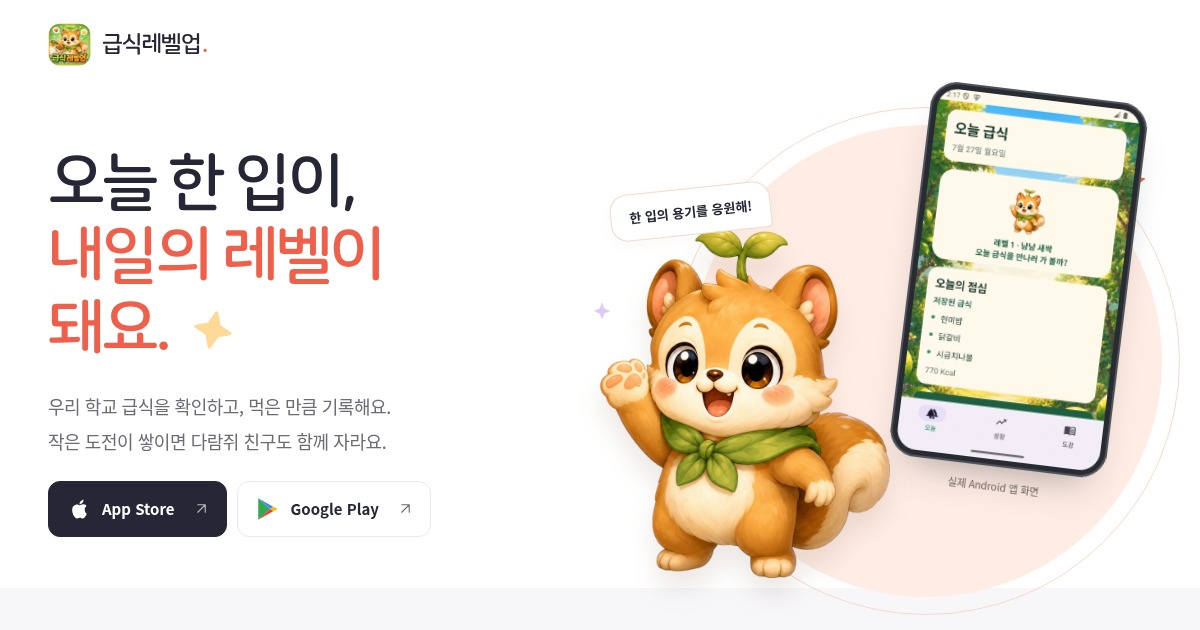
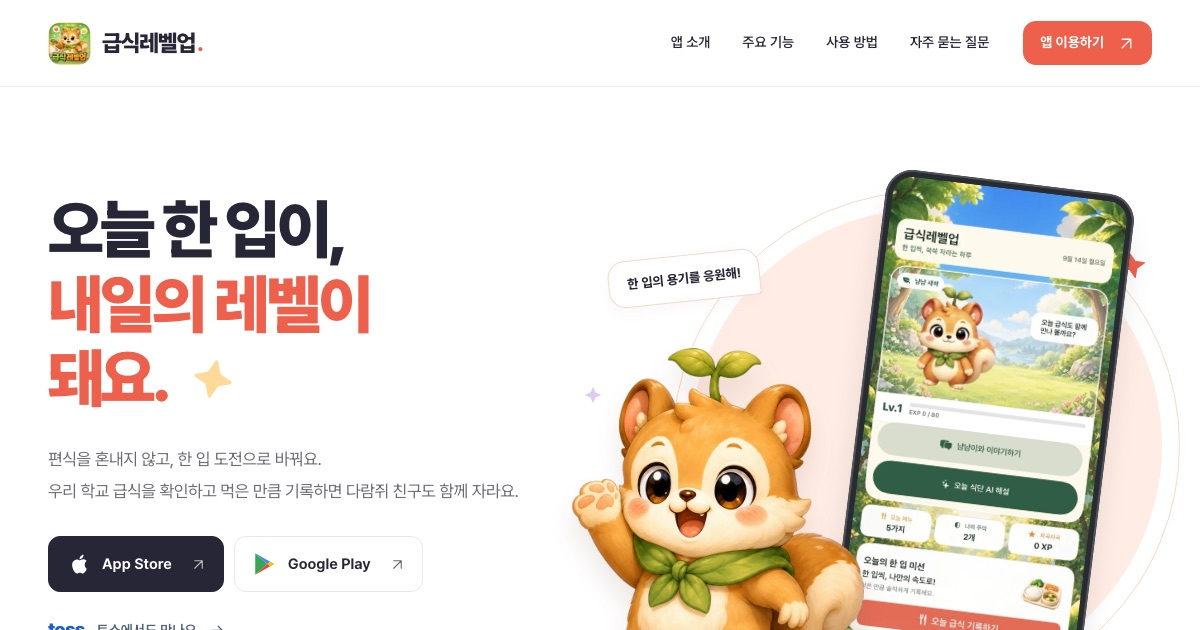
feat(site): add picky-eating prevention copy and cache-bust asset URLs

diff --git a/index.html b/index.html
@@ -5,30 +5,30 @@
 <meta charset="utf-8"/>
 <meta content="width=device-width, initial-scale=1" name="viewport"/>
 <title>급식레벨업 | 오늘 한 입이 내일의 레벨이 돼요</title>
-<meta content="우리 학교 급식을 확인하고, 먹은 만큼 기록해요. 하루 한 번 AI 식단 해설로 오늘의 영양 균형도 살펴보는 급식레벨업. iPhone·Android·토스에서 만나보세요." name="description"/>
+<meta content="편식을 혼내지 않고 한 입 도전으로 바꾸는 편식 예방 급식 코칭 앱. 우리 학교 급식을 확인하고 먹은 만큼 기록하며, 하루 한 번 AI 식단 해설로 영양 균형도 살펴봐요. iPhone·Android·토스에서 만나보세요." name="description"/>
 <meta content="#ffffff" name="theme-color"/>
 <link href="https://nyam.h19h19.com/" rel="canonical"/>
 <meta content="website" property="og:type"/>
 <meta content="ko_KR" property="og:locale"/>
 <meta content="https://nyam.h19h19.com/" property="og:url"/>
 <meta content="급식레벨업 | 오늘 한 입이 내일의 레벨이 돼요" property="og:title"/>
-<meta content="작은 한 입을 응원하는 급식 성장 기록 앱. AI 식단 해설로 오늘의 영양 균형까지 살펴봐요. iPhone·Android·토스에서 만나보세요." property="og:description"/>
-<meta content="https://nyam.h19h19.com/assets/images/og-cover.jpg" property="og:image"/>
+<meta content="편식을 혼내지 않고 한 입 도전으로 바꾸는 편식 예방 급식 코칭 앱. AI 식단 해설로 오늘의 영양 균형까지 살펴봐요. iPhone·Android·토스에서 만나보세요." property="og:description"/>
+<meta content="https://nyam.h19h19.com/assets/images/og-cover.jpg?v=20260916c" property="og:image"/>
 <meta content="1200" property="og:image:width"/>
 <meta content="630" property="og:image:height"/>
 <meta content="summary_large_image" name="twitter:card"/>
-<link href="./assets/images/app-icon-96.webp" rel="icon" type="image/webp"/>
-<link href="./assets/app-icon.png" rel="apple-touch-icon"/>
+<link href="./assets/images/app-icon-96.webp?v=20260916c" rel="icon" type="image/webp"/>
+<link href="./assets/app-icon.png?v=20260916c" rel="apple-touch-icon"/>
 <link crossorigin="" href="https://cdn.jsdelivr.net" rel="preconnect"/>
-<link href="./assets/fonts.css" rel="stylesheet"/>
-<link href="./assets/home.css" rel="stylesheet"/>
-<script defer="" src="./assets/home.js"></script>
+<link href="./assets/fonts.css?v=20260916c" rel="stylesheet"/>
+<link href="./assets/home.css?v=20260916c" rel="stylesheet"/>
+<script defer="" src="./assets/home.js?v=20260916c"></script>
 </head>
 <body>
 <a class="skip-link" href="#content">본문으로 바로가기</a>
 <header class="site-header" data-header="">
 <nav aria-label="주요 메뉴" class="container navbar">
-<a aria-label="급식레벨업 홈" class="brand" href="./index.html"><img alt="" class="" fetchpriority="high" height="96" src="./assets/images/app-icon-96.webp" width="96"/><span>급식레벨업<span class="brand-dot">.</span></span></a>
+<a aria-label="급식레벨업 홈" class="brand" href="./index.html"><img alt="" class="" fetchpriority="high" height="96" src="./assets/images/app-icon-96.webp?v=20260916c" width="96"/><span>급식레벨업<span class="brand-dot">.</span></span></a>
 <div class="nav-links" id="navigation"><a href="#intro">앱 소개</a><a href="#features">주요 기능</a><a href="#how">사용 방법</a><a href="#faq">자주 묻는 질문</a></div>
 <a class="button button-small button-coral nav-cta" href="#get">앱 이용하기<svg aria-hidden="true" class="icon" fill="none" stroke="currentColor" stroke-linecap="round" stroke-linejoin="round" stroke-width="1.8" viewbox="0 0 24 24"><path d="M6 18 18 6M6 6h12v12"></path></svg></a>
 <button aria-controls="navigation" aria-expanded="false" aria-label="메뉴 열기" class="menu-toggle" type="button"><svg aria-hidden="true" class="icon" fill="none" stroke="currentColor" stroke-linecap="round" stroke-linejoin="round" stroke-width="1.8" viewbox="0 0 24 24"><path d="M4 7h16M4 12h16M4 17h16"></path></svg></button>
@@ -39,15 +39,15 @@
 <div class="container hero-layout">
 <div class="hero-copy">
 <h1 id="hero-title">오늘 한 입이,<br/><span>내일의 레벨이</span><br/><span class="last-line">돼요<svg aria-hidden="true" class="title-spark" fill="none" stroke="currentColor" stroke-linecap="round" stroke-linejoin="round" stroke-width="1.8" viewbox="0 0 24 24"><path d="m12 3 2.6 6.4L21 12l-6.4 2.6L12 21l-2.6-6.4L3 12l6.4-2.6L12 3Z"></path></svg><span class="dot">.</span></span></h1>
-<p class="hero-description">우리 학교 급식을 확인하고, 먹은 만큼 기록해요.<br/>작은 도전이 쌓이면 다람쥐 친구도 함께 자라요.</p>
+<p class="hero-description">편식을 혼내지 않고, 한 입 도전으로 바꿔요.<br/>우리 학교 급식을 확인하고 먹은 만큼 기록하면 다람쥐 친구도 함께 자라요.</p>
 <div class="hero-actions"><a class="store-button apple" data-store="apple" href="https://apps.apple.com/in/app/%EA%B8%89%EC%8B%9D%EB%A0%88%EB%B2%A8%EC%97%85/id6781586745"><svg aria-hidden="true" class="store-icon" fill="currentColor" viewbox="0 0 24 24"><path d="M17.3 12.4c0-2 1.6-3 1.7-3.1-1-1.4-2.5-1.6-3.1-1.6-1.3-.1-2.5.8-3.1.8-.7 0-1.7-.8-2.8-.7-1.5 0-2.8.9-3.6 2.2-1.5 2.6-.4 6.5 1.1 8.6.7 1 1.5 2.1 2.6 2.1 1 0 1.4-.7 2.7-.7 1.2 0 1.6.7 2.7.7s1.8-1 2.5-2c.8-1.2 1.2-2.3 1.2-2.4-.1 0-1.9-.8-1.9-3.9ZM15.2 6.3c.6-.8 1.1-1.8 1-2.9-.9 0-2 .6-2.7 1.4-.6.7-1.2 1.8-1 2.8 1 .1 2.1-.5 2.7-1.3Z"></path></svg><span>App Store</span><svg aria-hidden="true" class="icon button-arrow" fill="none" stroke="currentColor" stroke-linecap="round" stroke-linejoin="round" stroke-width="1.8" viewbox="0 0 24 24"><path d="M6 18 18 6M6 6h12v12"></path></svg></a><a class="store-button google" data-store="google" href="https://play.google.com/store/apps/details?id=com.h19h29.naymnaymlevelup&amp;pcampaignid=web_share"><svg aria-hidden="true" class="store-icon play-icon" viewbox="0 0 24 24"><path d="M3 2 14 12 3 22Z" fill="#34a853"></path><path d="m3 2 13.8 8L14 12Z" fill="#4285f4"></path><path d="m14 12 2.8-2L21 12l-4.2 2Z" fill="#fbbc04"></path><path d="M3 22 14 12l2.8 2Z" fill="#ea4335"></path></svg><span>Google Play</span><svg aria-hidden="true" class="icon button-arrow" fill="none" stroke="currentColor" stroke-linecap="round" stroke-linejoin="round" stroke-width="1.8" viewbox="0 0 24 24"><path d="M6 18 18 6M6 6h12v12"></path></svg></a></div>
 <a class="toss-link" data-store="toss" href="https://minion.toss.im/DAV1jvys"><span class="toss-inline">toss</span>토스에서도 만나요<svg aria-hidden="true" class="icon" fill="none" stroke="currentColor" stroke-linecap="round" stroke-linejoin="round" stroke-width="1.8" viewbox="0 0 24 24"><path d="M5 12h14m-6-6 6 6-6 6"></path></svg></a>
 <p class="hero-note"><svg aria-hidden="true" class="icon" fill="none" stroke="currentColor" stroke-linecap="round" stroke-linejoin="round" stroke-width="1.8" viewbox="0 0 24 24"><path d="m5 12 4 4L19 6"></path></svg>회원가입 없이, 학교만 선택하면 시작!</p>
 </div>
 <div aria-label="실제 앱 화면과 급식레벨업의 다람쥐 캐릭터" class="hero-art">
 <div aria-hidden="true" class="hero-orbit"></div>
-<div class="hero-phone"><div class="device"><img alt="오늘 급식 메뉴와 다람쥐가 보이는 실제 앱 화면" class="" fetchpriority="high" height="1173" src="./assets/images/screen-today.webp" width="540"/></div><span class="hero-screen-note">실제 앱 화면</span></div>
-<div class="hero-mascot"><img alt="손을 들어 작은 도전을 응원하는 다람쥐 캐릭터" class="" fetchpriority="high" height="850" src="./assets/images/mascot-heart.webp" width="706"/></div>
+<div class="hero-phone"><div class="device"><img alt="오늘 급식 메뉴와 다람쥐가 보이는 실제 앱 화면" class="" fetchpriority="high" height="1173" src="./assets/images/screen-today.webp?v=20260916c" width="540"/></div><span class="hero-screen-note">실제 앱 화면</span></div>
+<div class="hero-mascot"><img alt="손을 들어 작은 도전을 응원하는 다람쥐 캐릭터" class="" fetchpriority="high" height="850" src="./assets/images/mascot-heart.webp?v=20260916c" width="706"/></div>
 <div class="speech-bubble">한 입의 용기를 응원해!</div>
 <div aria-hidden="true" class="art-star star-one"><svg aria-hidden="true" class="icon" fill="none" stroke="currentColor" stroke-linecap="round" stroke-linejoin="round" stroke-width="1.8" viewbox="0 0 24 24"><path d="m12 3 2.6 6.4L21 12l-6.4 2.6L12 21l-2.6-6.4L3 12l6.4-2.6L12 3Z"></path></svg></div><div aria-hidden="true" class="art-star star-two"><svg aria-hidden="true" class="icon" fill="none" stroke="currentColor" stroke-linecap="round" stroke-linejoin="round" stroke-width="1.8" viewbox="0 0 24 24"><path d="m12 3 2.6 6.4L21 12l-6.4 2.6L12 21l-2.6-6.4L3 12l6.4-2.6L12 3Z"></path></svg></div>
 <div class="hero-caption">작은 시도도, 멋진 성장이니까.</div>
@@ -61,29 +61,29 @@
 <div aria-label="앱 화면 선택" class="showcase-tabs" role="tablist"><button aria-controls="panel-today" aria-selected="true" class="showcase-tab" id="tab-today" role="tab" type="button"><span class="tab-number">01</span>오늘 급식</button><button aria-controls="panel-record" aria-selected="false" class="showcase-tab" id="tab-record" role="tab" type="button"><span class="tab-number">02</span>한 입 도전</button><button aria-controls="panel-growth" aria-selected="false" class="showcase-tab" id="tab-growth" role="tab" type="button"><span class="tab-number">03</span>나의 성장</button><button aria-controls="panel-dex" aria-selected="false" class="showcase-tab" id="tab-dex" role="tab" type="button"><span class="tab-number">04</span>성장 도감</button></div>
 <div class="showcase-content"><article aria-labelledby="tab-today" class="showcase-panel" id="panel-today" role="tabpanel" tabindex="0">
 <div class="screen-stage stage-today"><span class="screen-caption">실제 앱 화면</span>
-<a aria-label="오늘 급식 앱 화면 크게 보기" class="shot-zoom" data-title="오늘 급식" data-zoom="" href="./assets/images/screen-today.png">
-<div class="device"><img alt="오늘의 급식 메뉴와 다람쥐가 보이는 앱 화면" class="" decoding="async" height="1173" loading="lazy" src="./assets/images/screen-today.webp" width="540"/></div>
+<a aria-label="오늘 급식 앱 화면 크게 보기" class="shot-zoom" data-title="오늘 급식" data-zoom="" href="./assets/images/screen-today.png?v=20260916c">
+<div class="device"><img alt="오늘의 급식 메뉴와 다람쥐가 보이는 앱 화면" class="" decoding="async" height="1173" loading="lazy" src="./assets/images/screen-today.webp?v=20260916c" width="540"/></div>
 <span class="zoom-hint"><svg aria-hidden="true" class="icon" fill="none" stroke="currentColor" stroke-linecap="round" stroke-linejoin="round" stroke-width="1.8" viewbox="0 0 24 24"><path d="M9 3H3v6m12-6h6v6M3 15v6h6m12-6v6h-6"></path></svg>화면 크게 보기</span></a>
 <span class="screen-index">01<span> / 05</span></span></div>
 <div class="screen-description"><p class="section-label">오늘 급식</p><h3>우리 학교 메뉴가<br/>한눈에 보여요.</h3><p>학교를 등록하면 오늘의 급식을 바로 확인할 수 있어요. 낯선 반찬도 미리 만나고, 급식 시간을 가볍게 준비해요.</p>
 <div class="screen-point"><svg aria-hidden="true" class="icon" fill="none" stroke="currentColor" stroke-linecap="round" stroke-linejoin="round" stroke-width="1.8" viewbox="0 0 24 24"><path d="m5 12 4 4L19 6"></path></svg><strong>실제 학교 급식 정보</strong></div><p class="small-note">급식이 없는 날에는 그 이유를 안내해요.</p></div></article><article aria-labelledby="tab-record" class="showcase-panel" id="panel-record" role="tabpanel" tabindex="0">
 <div class="screen-stage stage-record"><span class="screen-caption">실제 앱 화면</span>
-<a aria-label="한 입 도전 앱 화면 크게 보기" class="shot-zoom" data-title="한 입 도전" data-zoom="" href="./assets/images/screen-record.png">
-<div class="device"><img alt="먹은 정도와 한 입 도전을 고르는 급식 기록 앱 화면" class="" decoding="async" height="1173" loading="lazy" src="./assets/images/screen-record.webp" width="540"/></div>
+<a aria-label="한 입 도전 앱 화면 크게 보기" class="shot-zoom" data-title="한 입 도전" data-zoom="" href="./assets/images/screen-record.png?v=20260916c">
+<div class="device"><img alt="먹은 정도와 한 입 도전을 고르는 급식 기록 앱 화면" class="" decoding="async" height="1173" loading="lazy" src="./assets/images/screen-record.webp?v=20260916c" width="540"/></div>
 <span class="zoom-hint"><svg aria-hidden="true" class="icon" fill="none" stroke="currentColor" stroke-linecap="round" stroke-linejoin="round" stroke-width="1.8" viewbox="0 0 24 24"><path d="M9 3H3v6m12-6h6v6M3 15v6h6m12-6v6h-6"></path></svg>화면 크게 보기</span></a>
 <span class="screen-index">02<span> / 05</span></span></div>
 <div class="screen-description"><p class="section-label">한 입 도전</p><h3>먹은 만큼만,<br/>솔직하게 기록해요.</h3><p>다 먹어야만 잘한 건 아니니까요. 한 입 먹어 본 날도, 냄새만 맡아 본 날도 나만의 작은 시도로 남겨요.</p>
 <div class="screen-point"><svg aria-hidden="true" class="icon" fill="none" stroke="currentColor" stroke-linecap="round" stroke-linejoin="round" stroke-width="1.8" viewbox="0 0 24 24"><path d="m5 12 4 4L19 6"></path></svg><strong>못 먹은 기록도 괜찮아요</strong></div><p class="small-note">알레르기 주의 메뉴는 도전보다 안전 확인이 먼저예요.</p></div></article><article aria-labelledby="tab-growth" class="showcase-panel" id="panel-growth" role="tabpanel" tabindex="0">
 <div class="screen-stage stage-growth"><span class="screen-caption">실제 앱 화면</span>
-<a aria-label="나의 성장 앱 화면 크게 보기" class="shot-zoom" data-title="나의 성장" data-zoom="" href="./assets/images/screen-growth.png">
-<div class="device"><img alt="다람쥐 캐릭터와 경험치를 보여 주는 성장 앱 화면" class="" decoding="async" height="1173" loading="lazy" src="./assets/images/screen-growth.webp" width="540"/></div>
+<a aria-label="나의 성장 앱 화면 크게 보기" class="shot-zoom" data-title="나의 성장" data-zoom="" href="./assets/images/screen-growth.png?v=20260916c">
+<div class="device"><img alt="다람쥐 캐릭터와 경험치를 보여 주는 성장 앱 화면" class="" decoding="async" height="1173" loading="lazy" src="./assets/images/screen-growth.webp?v=20260916c" width="540"/></div>
 <span class="zoom-hint"><svg aria-hidden="true" class="icon" fill="none" stroke="currentColor" stroke-linecap="round" stroke-linejoin="round" stroke-width="1.8" viewbox="0 0 24 24"><path d="M9 3H3v6m12-6h6v6M3 15v6h6m12-6v6h-6"></path></svg>화면 크게 보기</span></a>
 <span class="screen-index">03<span> / 05</span></span></div>
 <div class="screen-description"><p class="section-label">나의 성장</p><h3>기록이 쌓일수록<br/>친구도 자라나요.</h3><p>한 입의 용기와 매일의 기록이 경험치로 차곡차곡. 다람쥐 친구와 함께 나만의 성장 이야기를 만들어 가요.</p>
 <div class="screen-point"><svg aria-hidden="true" class="icon" fill="none" stroke="currentColor" stroke-linecap="round" stroke-linejoin="round" stroke-width="1.8" viewbox="0 0 24 24"><path d="m5 12 4 4L19 6"></path></svg><strong>어제보다 조금씩</strong></div><p class="small-note">성장 화면에서 모은 경험치와 다음 모습을 확인해요.</p></div></article><article aria-labelledby="tab-dex" class="showcase-panel" id="panel-dex" role="tabpanel" tabindex="0">
 <div class="screen-stage stage-dex"><span class="screen-caption">실제 앱 화면</span>
-<a aria-label="성장 도감 앱 화면 크게 보기" class="shot-zoom" data-title="성장 도감" data-zoom="" href="./assets/images/screen-dex.png">
-<div class="device"><img alt="해금한 캐릭터와 다음 단계를 보여 주는 성장 도감 앱 화면" class="" decoding="async" height="1173" loading="lazy" src="./assets/images/screen-dex.webp" width="540"/></div>
+<a aria-label="성장 도감 앱 화면 크게 보기" class="shot-zoom" data-title="성장 도감" data-zoom="" href="./assets/images/screen-dex.png?v=20260916c">
+<div class="device"><img alt="해금한 캐릭터와 다음 단계를 보여 주는 성장 도감 앱 화면" class="" decoding="async" height="1173" loading="lazy" src="./assets/images/screen-dex.webp?v=20260916c" width="540"/></div>
 <span class="zoom-hint"><svg aria-hidden="true" class="icon" fill="none" stroke="currentColor" stroke-linecap="round" stroke-linejoin="round" stroke-width="1.8" viewbox="0 0 24 24"><path d="M9 3H3v6m12-6h6v6M3 15v6h6m12-6v6h-6"></path></svg>화면 크게 보기</span></a>
 <span class="screen-index">04<span> / 05</span></span></div>
 <div class="screen-description"><p class="section-label">성장 도감</p><h3>만났던 순간을<br/>모아 보아요.</h3><p>처음 만난 친구부터 앞으로 만나게 될 모습까지. 성장 도감에서 지금까지의 여정을 한눈에 살펴볼 수 있어요.</p>
@@ -92,8 +92,8 @@
 </section>
 <section aria-labelledby="features-title" class="growth-section section-space" id="features">
 <div class="container growth-layout">
-<div class="growth-art"><img alt="밝은 표정으로 작은 도전을 함께하는 다람쥐 캐릭터" class="" decoding="async" height="850" loading="lazy" src="./assets/images/mascot-thumb.webp" width="698"/><div class="growth-bubble">오늘도 한 뼘 성장 중!</div><span aria-hidden="true" class="growth-orbit"></span></div>
-<div class="growth-copy"><p class="section-label">결과보다, 시도한 마음을 응원해요</p><h2 id="features-title">다 먹지 못한 날도,<br/><span>자라는 중이에요.</span></h2><p>낯선 반찬에 다가간 한 걸음.<br/>급식레벨업은 그 작은 용기를 기록해요.<br/>혼내기보다 응원하고, 비교보다 성장을 바라봐요.</p>
+<div class="growth-art"><img alt="밝은 표정으로 작은 도전을 함께하는 다람쥐 캐릭터" class="" decoding="async" height="850" loading="lazy" src="./assets/images/mascot-thumb.webp?v=20260916c" width="698"/><div class="growth-bubble">오늘도 한 뼘 성장 중!</div><span aria-hidden="true" class="growth-orbit"></span></div>
+<div class="growth-copy"><p class="section-label">편식 예방, 혼내지 않고 시작해요</p><h2 id="features-title">다 먹지 못한 날도,<br/><span>자라는 중이에요.</span></h2><p>편식은 혼내서 고쳐지지 않아요.<br/>낯선 반찬에 다가간 한 걸음도 급식레벨업은 작은 성공으로 기록해요.<br/>혼내기보다 응원하고, 비교보다 성장을 바라봐요.</p>
 <div aria-label="앱에서 남길 수 있는 기록의 예시" class="record-chips"><span><svg aria-hidden="true" class="icon" fill="none" stroke="currentColor" stroke-linecap="round" stroke-linejoin="round" stroke-width="1.8" viewbox="0 0 24 24"><path d="m12 3 2.6 6.4L21 12l-6.4 2.6L12 21l-2.6-6.4L3 12l6.4-2.6L12 3Z"></path></svg>한입도전</span><span>냄새만 맡아봤어요</span><span>오늘은 어려워요</span></div><p class="tiny-note">알레르기가 의심되는 메뉴는 도전하지 않아도 괜찮아요.</p>
 </div>
 </div>
@@ -101,8 +101,8 @@
 <section aria-labelledby="ai-title" class="ai-section section-space" id="ai">
 <div class="container ai-layout">
 <div class="ai-art"><span class="screen-caption">실제 앱 화면</span>
-<a aria-label="AI 식단 해설 앱 화면 크게 보기" class="shot-zoom" data-title="AI 식단 해설" data-zoom="" href="./assets/images/screen-ai.png">
-<div class="device"><img alt="AI가 오늘 식단의 영양 균형과 보완할 점을 설명해 주는 앱 화면" class="" decoding="async" height="1173" loading="lazy" src="./assets/images/screen-ai.webp" width="540"/></div>
+<a aria-label="AI 식단 해설 앱 화면 크게 보기" class="shot-zoom" data-title="AI 식단 해설" data-zoom="" href="./assets/images/screen-ai.png?v=20260916c">
+<div class="device"><img alt="AI가 오늘 식단의 영양 균형과 보완할 점을 설명해 주는 앱 화면" class="" decoding="async" height="1173" loading="lazy" src="./assets/images/screen-ai.webp?v=20260916c" width="540"/></div>
 <span class="zoom-hint"><svg aria-hidden="true" class="icon" fill="none" stroke="currentColor" stroke-linecap="round" stroke-linejoin="round" stroke-width="1.8" viewbox="0 0 24 24"><path d="M9 3H3v6m12-6h6v6M3 15v6h6m12-6v6h-6"></path></svg>화면 크게 보기</span></a>
 </div>
 <div class="growth-copy ai-copy"><p class="section-label">AI 식단 해설</p>
@@ -137,20 +137,20 @@
 <div class="container"><div class="center-heading"><p class="section-label">만나는 방법은 세 가지</p><h2 id="get-title">내게 편한 곳에서 만나요.</h2><p>쓰는 기기에 맞춰 골라 주세요.<br class="mobile-only"/> 버튼을 누르거나 QR을 스캔하면 연결돼요.</p></div>
 <div class="download-grid"><article class="download-card download-apple"><div class="platform-logo"><svg aria-hidden="true" class="store-icon" fill="currentColor" viewbox="0 0 24 24"><path d="M17.3 12.4c0-2 1.6-3 1.7-3.1-1-1.4-2.5-1.6-3.1-1.6-1.3-.1-2.5.8-3.1.8-.7 0-1.7-.8-2.8-.7-1.5 0-2.8.9-3.6 2.2-1.5 2.6-.4 6.5 1.1 8.6.7 1 1.5 2.1 2.6 2.1 1 0 1.4-.7 2.7-.7 1.2 0 1.6.7 2.7.7s1.8-1 2.5-2c.8-1.2 1.2-2.3 1.2-2.4-.1 0-1.9-.8-1.9-3.9ZM15.2 6.3c.6-.8 1.1-1.8 1-2.9-.9 0-2 .6-2.7 1.4-.6.7-1.2 1.8-1 2.8 1 .1 2.1-.5 2.7-1.3Z"></path></svg></div><h3>iPhone에서</h3><p>앱을 설치하고 오늘 급식부터 만나보세요.</p>
 <a class="store-button apple" data-store="apple" href="https://apps.apple.com/in/app/%EA%B8%89%EC%8B%9D%EB%A0%88%EB%B2%A8%EC%97%85/id6781586745"><svg aria-hidden="true" class="store-icon" fill="currentColor" viewbox="0 0 24 24"><path d="M17.3 12.4c0-2 1.6-3 1.7-3.1-1-1.4-2.5-1.6-3.1-1.6-1.3-.1-2.5.8-3.1.8-.7 0-1.7-.8-2.8-.7-1.5 0-2.8.9-3.6 2.2-1.5 2.6-.4 6.5 1.1 8.6.7 1 1.5 2.1 2.6 2.1 1 0 1.4-.7 2.7-.7 1.2 0 1.6.7 2.7.7s1.8-1 2.5-2c.8-1.2 1.2-2.3 1.2-2.4-.1 0-1.9-.8-1.9-3.9ZM15.2 6.3c.6-.8 1.1-1.8 1-2.9-.9 0-2 .6-2.7 1.4-.6.7-1.2 1.8-1 2.8 1 .1 2.1-.5 2.7-1.3Z"></path></svg><span>App Store에서 받기</span><svg aria-hidden="true" class="icon button-arrow" fill="none" stroke="currentColor" stroke-linecap="round" stroke-linejoin="round" stroke-width="1.8" viewbox="0 0 24 24"><path d="M6 18 18 6M6 6h12v12"></path></svg></a>
-<div class="qr-block"><img alt="App Store로 연결되는 QR 코드" class="" decoding="async" height="360" loading="lazy" src="./assets/images/qr-apple.png" width="360"/><div><strong>휴대폰 카메라로 스캔</strong><span>App Store로 이동해요.</span></div></div></article><article class="download-card download-google"><div class="platform-logo"><svg aria-hidden="true" class="store-icon play-icon" viewbox="0 0 24 24"><path d="M3 2 14 12 3 22Z" fill="#34a853"></path><path d="m3 2 13.8 8L14 12Z" fill="#4285f4"></path><path d="m14 12 2.8-2L21 12l-4.2 2Z" fill="#fbbc04"></path><path d="M3 22 14 12l2.8 2Z" fill="#ea4335"></path></svg></div><h3>Android에서</h3><p>내 스마트폰에서 기록을 차곡차곡 쌓아요.</p>
+<div class="qr-block"><img alt="App Store로 연결되는 QR 코드" class="" decoding="async" height="360" loading="lazy" src="./assets/images/qr-apple.png?v=20260916c" width="360"/><div><strong>휴대폰 카메라로 스캔</strong><span>App Store로 이동해요.</span></div></div></article><article class="download-card download-google"><div class="platform-logo"><svg aria-hidden="true" class="store-icon play-icon" viewbox="0 0 24 24"><path d="M3 2 14 12 3 22Z" fill="#34a853"></path><path d="m3 2 13.8 8L14 12Z" fill="#4285f4"></path><path d="m14 12 2.8-2L21 12l-4.2 2Z" fill="#fbbc04"></path><path d="M3 22 14 12l2.8 2Z" fill="#ea4335"></path></svg></div><h3>Android에서</h3><p>내 스마트폰에서 기록을 차곡차곡 쌓아요.</p>
 <a class="store-button google" data-store="google" href="https://play.google.com/store/apps/details?id=com.h19h29.naymnaymlevelup&amp;pcampaignid=web_share"><svg aria-hidden="true" class="store-icon play-icon" viewbox="0 0 24 24"><path d="M3 2 14 12 3 22Z" fill="#34a853"></path><path d="m3 2 13.8 8L14 12Z" fill="#4285f4"></path><path d="m14 12 2.8-2L21 12l-4.2 2Z" fill="#fbbc04"></path><path d="M3 22 14 12l2.8 2Z" fill="#ea4335"></path></svg><span>Google Play에서 받기</span><svg aria-hidden="true" class="icon button-arrow" fill="none" stroke="currentColor" stroke-linecap="round" stroke-linejoin="round" stroke-width="1.8" viewbox="0 0 24 24"><path d="M6 18 18 6M6 6h12v12"></path></svg></a>
-<div class="qr-block"><img alt="Google Play로 연결되는 QR 코드" class="" decoding="async" height="392" loading="lazy" src="./assets/images/qr-google.png" width="392"/><div><strong>휴대폰 카메라로 스캔</strong><span>Google Play로 이동해요.</span></div></div></article><article class="download-card download-toss"><div class="platform-logo"><span aria-hidden="true" class="toss-mark">toss</span></div><h3>토스에서</h3><p>토스 앱이 있다면 미니앱으로 만나보세요.</p>
+<div class="qr-block"><img alt="Google Play로 연결되는 QR 코드" class="" decoding="async" height="392" loading="lazy" src="./assets/images/qr-google.png?v=20260916c" width="392"/><div><strong>휴대폰 카메라로 스캔</strong><span>Google Play로 이동해요.</span></div></div></article><article class="download-card download-toss"><div class="platform-logo"><span aria-hidden="true" class="toss-mark">toss</span></div><h3>토스에서</h3><p>토스 앱이 있다면 미니앱으로 만나보세요.</p>
 <a class="store-button toss" data-store="toss" href="https://minion.toss.im/DAV1jvys"><span aria-hidden="true" class="toss-mark">toss</span><span>토스에서 열기</span><svg aria-hidden="true" class="icon button-arrow" fill="none" stroke="currentColor" stroke-linecap="round" stroke-linejoin="round" stroke-width="1.8" viewbox="0 0 24 24"><path d="M6 18 18 6M6 6h12v12"></path></svg></a>
-<div class="qr-block"><img alt="토스 미니앱로 연결되는 QR 코드" class="" decoding="async" height="296" loading="lazy" src="./assets/images/qr-toss.png" width="296"/><div><strong>휴대폰 카메라로 스캔</strong><span>토스 미니앱로 이동해요.</span></div></div></article></div><p class="platform-note">토스 미니앱은 토스 앱이 필요해요. 플랫폼별 제공 기능과 업데이트 시점은 다를 수 있어요.</p>
+<div class="qr-block"><img alt="토스 미니앱로 연결되는 QR 코드" class="" decoding="async" height="296" loading="lazy" src="./assets/images/qr-toss.png?v=20260916c" width="296"/><div><strong>휴대폰 카메라로 스캔</strong><span>토스 미니앱로 이동해요.</span></div></div></article></div><p class="platform-note">토스 미니앱은 토스 앱이 필요해요. 플랫폼별 제공 기능과 업데이트 시점은 다를 수 있어요.</p>
 </div>
 </section>
 <section aria-labelledby="faq-title" class="faq-section section-space" id="faq">
-<div class="container faq-layout"><div><p class="section-label">궁금한 점이 있나요?</p><h2 id="faq-title">먼저 확인해<br/>보세요.</h2><p>더 자세한 도움이 필요하다면<br/>지원 안내를 살펴봐 주세요.</p><a class="text-link" href="./support.html">지원 안내 보기<svg aria-hidden="true" class="icon" fill="none" stroke="currentColor" stroke-linecap="round" stroke-linejoin="round" stroke-width="1.8" viewbox="0 0 24 24"><path d="M5 12h14m-6-6 6 6-6 6"></path></svg></a></div><div class="faq-list"><details class="faq-item"><summary>무료로 사용할 수 있나요?<svg aria-hidden="true" class="icon" fill="none" stroke="currentColor" stroke-linecap="round" stroke-linejoin="round" stroke-width="1.8" viewbox="0 0 24 24"><path d="M12 5v14M5 12h14"></path></svg></summary><div class="faq-answer"><p>iPhone·Android 앱은 회원가입 없이 시작할 수 있는 무료 앱이에요. 광고나 인앱결제도 없어요. 토스 미니앱을 포함한 플랫폼별 제공 기능과 업데이트 시점은 다를 수 있어요.</p></div></details><details class="faq-item"><summary>급식 정보는 어디에서 가져오나요?<svg aria-hidden="true" class="icon" fill="none" stroke="currentColor" stroke-linecap="round" stroke-linejoin="round" stroke-width="1.8" viewbox="0 0 24 24"><path d="M12 5v14M5 12h14"></path></svg></summary><div class="faq-answer"><p>학교와 교육청에서 공개한 NEIS 급식식단정보를 사용해요. 방학·재량휴업일이거나 아직 식단이 공개되지 않은 날에는 급식이 표시되지 않을 수 있어요. 자세한 대처 방법은 <a href="./support.html">지원 안내</a>에서 확인해 주세요.</p></div></details><details class="faq-item"><summary>AI 식단 해설은 어떻게 사용하나요?<svg aria-hidden="true" class="icon" fill="none" stroke="currentColor" stroke-linecap="round" stroke-linejoin="round" stroke-width="1.8" viewbox="0 0 24 24"><path d="M12 5v14M5 12h14"></path></svg></summary><div class="faq-answer"><p>오늘 급식 화면에서 <strong>오늘 식단 AI 해설</strong>을 누르면 하루 한 번 생성할 수 있어요. AI가 만든 안내임을 화면에 표시하고, 생성된 평가는 기기에 저장되어 횟수 제한 없이 다시 볼 수 있어요. 이름·학교·메뉴 이름·날짜·먹은 기록·등록 알레르기는 AI 제공자에게 보내지 않아요. AI 해설은 영양 교육용 참고 안내이며, 영양사나 의료 상담을 대신하지 않아요.</p></div></details><details class="faq-item"><summary>알레르기가 있는 메뉴도 도전해야 하나요?<svg aria-hidden="true" class="icon" fill="none" stroke="currentColor" stroke-linecap="round" stroke-linejoin="round" stroke-width="1.8" viewbox="0 0 24 24"><path d="M12 5v14M5 12h14"></path></svg></summary><div class="faq-answer"><p>아니요. 알레르기와 관련될 수 있는 메뉴는 한 입 도전보다 학교 안내와 보호자 확인이 먼저예요. 알레르기·영양 정보는 교육용 참고 자료이며, 앱이 알레르기 안전이나 건강 개선을 보장하지는 않아요.</p></div></details><details class="faq-item"><summary>보호자와 기록을 함께 볼 수 있나요?<svg aria-hidden="true" class="icon" fill="none" stroke="currentColor" stroke-linecap="round" stroke-linejoin="round" stroke-width="1.8" viewbox="0 0 24 24"><path d="M12 5v14M5 12h14"></path></svg></summary><div class="faq-answer"><p>iPhone·Android 앱의 보호자 연결 기능을 이용해요. 아이 기기에서 만든 초대 코드를 부모 모드에 입력하면, 공유하기로 한 기록을 함께 볼 수 있어요. 급식판 사진은 기기 내부에만 저장되고 보호자 공유에 포함되지 않아요.</p></div></details><details class="faq-item"><summary>토스에서는 어떻게 이용하나요?<svg aria-hidden="true" class="icon" fill="none" stroke="currentColor" stroke-linecap="round" stroke-linejoin="round" stroke-width="1.8" viewbox="0 0 24 24"><path d="M12 5v14M5 12h14"></path></svg></summary><div class="faq-answer"><p>아래 <a href="#get">앱 이용하기</a>에서 토스 버튼을 누르거나 QR을 스캔해 주세요. 토스 앱이 설치된 기기에서 미니앱으로 연결돼요. 설치형 앱과 제공 기능이 다를 수 있어요.</p></div></details></div></div>
+<div class="container faq-layout"><div><p class="section-label">궁금한 점이 있나요?</p><h2 id="faq-title">먼저 확인해<br/>보세요.</h2><p>더 자세한 도움이 필요하다면<br/>지원 안내를 살펴봐 주세요.</p><a class="text-link" href="./support.html">지원 안내 보기<svg aria-hidden="true" class="icon" fill="none" stroke="currentColor" stroke-linecap="round" stroke-linejoin="round" stroke-width="1.8" viewbox="0 0 24 24"><path d="M5 12h14m-6-6 6 6-6 6"></path></svg></a></div><div class="faq-list"><details class="faq-item"><summary>무료로 사용할 수 있나요?<svg aria-hidden="true" class="icon" fill="none" stroke="currentColor" stroke-linecap="round" stroke-linejoin="round" stroke-width="1.8" viewbox="0 0 24 24"><path d="M12 5v14M5 12h14"></path></svg></summary><div class="faq-answer"><p>iPhone·Android 앱은 회원가입 없이 시작할 수 있는 무료 앱이에요. 광고나 인앱결제도 없어요. 토스 미니앱을 포함한 플랫폼별 제공 기능과 업데이트 시점은 다를 수 있어요.</p></div></details><details class="faq-item"><summary>편식이 심한 아이도 괜찮을까요?<svg aria-hidden="true" class="icon" fill="none" stroke="currentColor" stroke-linecap="round" stroke-linejoin="round" stroke-width="1.8" viewbox="0 0 24 24"><path d="M12 5v14M5 12h14"></path></svg></summary><div class="faq-answer"><p>괜찮아요. 급식레벨업은 편식을 혼내서 고치는 앱이 아니라, 먹어 본 경험을 쌓아 낯선 음식에 대한 부담을 줄이는 편식 예방 앱이에요. 안 먹었어요, 냄새만 맡아 봤어요, 한 입 도전했어요처럼 아주 작은 단계부터 기록할 수 있어서, 실패 없이 성공 경험을 쌓아 갈 수 있어요. 알레르기와 관련된 메뉴는 도전 대신 안전 확인이 먼저예요.</p></div></details><details class="faq-item"><summary>급식 정보는 어디에서 가져오나요?<svg aria-hidden="true" class="icon" fill="none" stroke="currentColor" stroke-linecap="round" stroke-linejoin="round" stroke-width="1.8" viewbox="0 0 24 24"><path d="M12 5v14M5 12h14"></path></svg></summary><div class="faq-answer"><p>학교와 교육청에서 공개한 NEIS 급식식단정보를 사용해요. 방학·재량휴업일이거나 아직 식단이 공개되지 않은 날에는 급식이 표시되지 않을 수 있어요. 자세한 대처 방법은 <a href="./support.html">지원 안내</a>에서 확인해 주세요.</p></div></details><details class="faq-item"><summary>AI 식단 해설은 어떻게 사용하나요?<svg aria-hidden="true" class="icon" fill="none" stroke="currentColor" stroke-linecap="round" stroke-linejoin="round" stroke-width="1.8" viewbox="0 0 24 24"><path d="M12 5v14M5 12h14"></path></svg></summary><div class="faq-answer"><p>오늘 급식 화면에서 <strong>오늘 식단 AI 해설</strong>을 누르면 하루 한 번 생성할 수 있어요. AI가 만든 안내임을 화면에 표시하고, 생성된 평가는 기기에 저장되어 횟수 제한 없이 다시 볼 수 있어요. 이름·학교·메뉴 이름·날짜·먹은 기록·등록 알레르기는 AI 제공자에게 보내지 않아요. AI 해설은 영양 교육용 참고 안내이며, 영양사나 의료 상담을 대신하지 않아요.</p></div></details><details class="faq-item"><summary>알레르기가 있는 메뉴도 도전해야 하나요?<svg aria-hidden="true" class="icon" fill="none" stroke="currentColor" stroke-linecap="round" stroke-linejoin="round" stroke-width="1.8" viewbox="0 0 24 24"><path d="M12 5v14M5 12h14"></path></svg></summary><div class="faq-answer"><p>아니요. 알레르기와 관련될 수 있는 메뉴는 한 입 도전보다 학교 안내와 보호자 확인이 먼저예요. 알레르기·영양 정보는 교육용 참고 자료이며, 앱이 알레르기 안전이나 건강 개선을 보장하지는 않아요.</p></div></details><details class="faq-item"><summary>보호자와 기록을 함께 볼 수 있나요?<svg aria-hidden="true" class="icon" fill="none" stroke="currentColor" stroke-linecap="round" stroke-linejoin="round" stroke-width="1.8" viewbox="0 0 24 24"><path d="M12 5v14M5 12h14"></path></svg></summary><div class="faq-answer"><p>iPhone·Android 앱의 보호자 연결 기능을 이용해요. 아이 기기에서 만든 초대 코드를 부모 모드에 입력하면, 공유하기로 한 기록을 함께 볼 수 있어요. 급식판 사진은 기기 내부에만 저장되고 보호자 공유에 포함되지 않아요.</p></div></details><details class="faq-item"><summary>토스에서는 어떻게 이용하나요?<svg aria-hidden="true" class="icon" fill="none" stroke="currentColor" stroke-linecap="round" stroke-linejoin="round" stroke-width="1.8" viewbox="0 0 24 24"><path d="M12 5v14M5 12h14"></path></svg></summary><div class="faq-answer"><p>아래 <a href="#get">앱 이용하기</a>에서 토스 버튼을 누르거나 QR을 스캔해 주세요. 토스 앱이 설치된 기기에서 미니앱으로 연결돼요. 설치형 앱과 제공 기능이 다를 수 있어요.</p></div></details></div></div>
 <div class="container"><aside class="privacy-note"><svg aria-hidden="true" class="icon" fill="none" stroke="currentColor" stroke-linecap="round" stroke-linejoin="round" stroke-width="1.8" viewbox="0 0 24 24"><rect height="11" rx="3" width="14" x="5" y="10"></rect><path d="M8 10V7a4 4 0 0 1 8 0v3M12 14v3"></path></svg><p>기록은 기본적으로 기기에 저장되고, 보호자 공유를 켠 기록은 서버에 동기화될 수 있어요. 자세한 내용은 <a href="./privacy.html">개인정보 처리방침</a>과 <a href="./data-safety.html">데이터 안전 안내</a>를 확인해 주세요.</p></aside></div>
 </section>
-<section aria-labelledby="closing-title" class="closing-section" data-hide-sticky=""><div class="container closing-layout"><div><h2 id="closing-title">작은 한 입으로,<br/>내일의 나를 키워요.</h2><p>우리 학교 급식과 다람쥐 친구가 기다리고 있어요.</p><a class="button button-white" href="#get">급식레벨업 시작하기<svg aria-hidden="true" class="icon" fill="none" stroke="currentColor" stroke-linecap="round" stroke-linejoin="round" stroke-width="1.8" viewbox="0 0 24 24"><path d="M5 12h14m-6-6 6 6-6 6"></path></svg></a></div><div class="closing-art"><img alt="" class="" decoding="async" height="850" loading="lazy" src="./assets/images/mascot-heart.webp" width="706"/><span aria-hidden="true"><svg aria-hidden="true" class="icon" fill="none" stroke="currentColor" stroke-linecap="round" stroke-linejoin="round" stroke-width="1.8" viewbox="0 0 24 24"><path d="m12 3 2.6 6.4L21 12l-6.4 2.6L12 21l-2.6-6.4L3 12l6.4-2.6L12 3Z"></path></svg></span></div></div></section>
+<section aria-labelledby="closing-title" class="closing-section" data-hide-sticky=""><div class="container closing-layout"><div><h2 id="closing-title">작은 한 입으로,<br/>내일의 나를 키워요.</h2><p>우리 학교 급식과 다람쥐 친구가 기다리고 있어요.</p><a class="button button-white" href="#get">급식레벨업 시작하기<svg aria-hidden="true" class="icon" fill="none" stroke="currentColor" stroke-linecap="round" stroke-linejoin="round" stroke-width="1.8" viewbox="0 0 24 24"><path d="M5 12h14m-6-6 6 6-6 6"></path></svg></a></div><div class="closing-art"><img alt="" class="" decoding="async" height="850" loading="lazy" src="./assets/images/mascot-heart.webp?v=20260916c" width="706"/><span aria-hidden="true"><svg aria-hidden="true" class="icon" fill="none" stroke="currentColor" stroke-linecap="round" stroke-linejoin="round" stroke-width="1.8" viewbox="0 0 24 24"><path d="m12 3 2.6 6.4L21 12l-6.4 2.6L12 21l-2.6-6.4L3 12l6.4-2.6L12 3Z"></path></svg></span></div></div></section>
 </main>
-<footer class="site-footer" data-hide-sticky=""><div class="container"><div class="footer-top"><a class="brand" href="./index.html"><img alt="" class="" decoding="async" height="96" loading="lazy" src="./assets/images/app-icon-96.webp" width="96"/><span>급식레벨업<span class="brand-dot">.</span></span></a><nav aria-label="정책 및 지원"><a href="./privacy.html">개인정보 처리방침</a><a href="./data-safety.html">데이터 안전</a><a href="./support.html">지원 안내</a></nav></div><div class="footer-bottom"><p>© 2026 h19h29-design. All rights reserved.</p><p>급식 데이터: NEIS 공공데이터 · 실제 화면은 Android 앱 기준</p></div></div></footer>
+<footer class="site-footer" data-hide-sticky=""><div class="container"><div class="footer-top"><a class="brand" href="./index.html"><img alt="" class="" decoding="async" height="96" loading="lazy" src="./assets/images/app-icon-96.webp?v=20260916c" width="96"/><span>급식레벨업<span class="brand-dot">.</span></span></a><nav aria-label="정책 및 지원"><a href="./privacy.html">개인정보 처리방침</a><a href="./data-safety.html">데이터 안전</a><a href="./support.html">지원 안내</a></nav></div><div class="footer-bottom"><p>© 2026 h19h29-design. All rights reserved.</p><p>급식 데이터: NEIS 공공데이터 · 실제 화면은 Android 앱 기준</p></div></div></footer>
 <div class="mobile-sticky" hidden=""><a href="#get"><span>급식레벨업</span><strong>앱 이용하기<svg aria-hidden="true" class="icon" fill="none" stroke="currentColor" stroke-linecap="round" stroke-linejoin="round" stroke-width="1.8" viewbox="0 0 24 24"><path d="M5 12h14m-6-6 6 6-6 6"></path></svg></strong></a></div>
-<dialog aria-labelledby="dialog-title" class="image-dialog"><div class="dialog-inner"><div class="dialog-header"><h2 id="dialog-title">앱 화면</h2><button aria-label="큰 화면 닫기" class="dialog-close" type="button"><svg aria-hidden="true" class="icon" fill="none" stroke="currentColor" stroke-linecap="round" stroke-linejoin="round" stroke-width="1.8" viewbox="0 0 24 24"><path d="m6 6 12 12M18 6 6 18"></path></svg></button></div><img alt="" class="dialog-image" height="1173" src="./assets/images/screen-today.png" width="540"/><div class="dialog-controls"><button aria-label="이전 앱 화면" class="dialog-prev" type="button"><svg aria-hidden="true" class="icon" fill="none" stroke="currentColor" stroke-linecap="round" stroke-linejoin="round" stroke-width="1.8" viewbox="0 0 24 24"><path d="M5 12h14m-6-6 6 6-6 6"></path></svg></button><span aria-live="polite" class="dialog-counter">1 / 5</span><button aria-label="다음 앱 화면" class="dialog-next" type="button"><svg aria-hidden="true" class="icon" fill="none" stroke="currentColor" stroke-linecap="round" stroke-linejoin="round" stroke-width="1.8" viewbox="0 0 24 24"><path d="M5 12h14m-6-6 6 6-6 6"></path></svg></button></div></div></dialog>
+<dialog aria-labelledby="dialog-title" class="image-dialog"><div class="dialog-inner"><div class="dialog-header"><h2 id="dialog-title">앱 화면</h2><button aria-label="큰 화면 닫기" class="dialog-close" type="button"><svg aria-hidden="true" class="icon" fill="none" stroke="currentColor" stroke-linecap="round" stroke-linejoin="round" stroke-width="1.8" viewbox="0 0 24 24"><path d="m6 6 12 12M18 6 6 18"></path></svg></button></div><img alt="" class="dialog-image" height="1173" src="./assets/images/screen-today.png?v=20260916c" width="540"/><div class="dialog-controls"><button aria-label="이전 앱 화면" class="dialog-prev" type="button"><svg aria-hidden="true" class="icon" fill="none" stroke="currentColor" stroke-linecap="round" stroke-linejoin="round" stroke-width="1.8" viewbox="0 0 24 24"><path d="M5 12h14m-6-6 6 6-6 6"></path></svg></button><span aria-live="polite" class="dialog-counter">1 / 5</span><button aria-label="다음 앱 화면" class="dialog-next" type="button"><svg aria-hidden="true" class="icon" fill="none" stroke="currentColor" stroke-linecap="round" stroke-linejoin="round" stroke-width="1.8" viewbox="0 0 24 24"><path d="M5 12h14m-6-6 6 6-6 6"></path></svg></button></div></div></dialog>
 </body></html>

diff --git a/privacy.html b/privacy.html
@@ -6,15 +6,15 @@
     <meta name="description" content="급식레벨업 개인정보 처리방침" />
     <meta name="theme-color" content="#fff9ed" />
     <title>급식레벨업 개인정보 처리방침</title>
-    <link rel="icon" href="./assets/app-icon.png" />
-    <link rel="stylesheet" href="./assets/site.css" />
+    <link rel="icon" href="./assets/app-icon.png?v=20260916c" />
+    <link rel="stylesheet" href="./assets/site.css?v=20260916c" />
   </head>
   <body>
     <a class="skip-link" href="#content">본문으로 바로가기</a>
     <header class="site-header">
       <nav class="nav" aria-label="주요 메뉴">
         <a class="brand" href="./index.html" aria-label="급식레벨업 홈">
-          <img src="./assets/app-icon.png" alt="" />
+          <img src="./assets/app-icon.png?v=20260916c" alt="" />
           <span>급식레벨업</span>
         </a>
         <div class="nav-links">

diff --git a/data-safety.html b/data-safety.html
@@ -6,15 +6,15 @@
     <meta name="description" content="급식레벨업 데이터 안전 안내" />
     <meta name="theme-color" content="#fff9ed" />
     <title>급식레벨업 데이터 안전 안내</title>
-    <link rel="icon" href="./assets/app-icon.png" />
-    <link rel="stylesheet" href="./assets/site.css" />
+    <link rel="icon" href="./assets/app-icon.png?v=20260916c" />
+    <link rel="stylesheet" href="./assets/site.css?v=20260916c" />
   </head>
   <body>
     <a class="skip-link" href="#content">본문으로 바로가기</a>
     <header class="site-header">
       <nav class="nav" aria-label="주요 메뉴">
         <a class="brand" href="./index.html" aria-label="급식레벨업 홈">
-          <img src="./assets/app-icon.png" alt="" />
+          <img src="./assets/app-icon.png?v=20260916c" alt="" />
           <span>급식레벨업</span>
         </a>
         <div class="nav-links">

diff --git a/support.html b/support.html
@@ -6,15 +6,15 @@
     <meta name="description" content="급식레벨업 지원 안내" />
     <meta name="theme-color" content="#fff9ed" />
     <title>급식레벨업 지원 안내</title>
-    <link rel="icon" href="./assets/app-icon.png" />
-    <link rel="stylesheet" href="./assets/site.css" />
+    <link rel="icon" href="./assets/app-icon.png?v=20260916c" />
+    <link rel="stylesheet" href="./assets/site.css?v=20260916c" />
   </head>
   <body>
     <a class="skip-link" href="#content">본문으로 바로가기</a>
     <header class="site-header">
       <nav class="nav" aria-label="주요 메뉴">
         <a class="brand" href="./index.html" aria-label="급식레벨업 홈">
-          <img src="./assets/app-icon.png" alt="" />
+          <img src="./assets/app-icon.png?v=20260916c" alt="" />
           <span>급식레벨업</span>
         </a>
         <div class="nav-links">

diff --git a/parent-invite/index.html b/parent-invite/index.html
@@ -4,7 +4,7 @@
   <meta charset="utf-8">
   <meta name="viewport" content="width=device-width, initial-scale=1">
   <title>급식레벨업 보호자 초대 시작</title>
-  <link rel="stylesheet" href="../assets/site.css">
+  <link rel="stylesheet" href="../assets/site.css?v=20260916c">
   <style>
     body {
       min-height: 100vh;
@@ -62,7 +62,7 @@
 </head>
 <body>
   <main class="invite-card">
-    <img src="../assets/mascot-thumb.png" alt="급식레벨업 캐릭터">
+    <img src="../assets/mascot-thumb.png?v=20260916c" alt="급식레벨업 캐릭터">
     <h1>보호자 초대 시작</h1>
     <p>아이 기기에서 급식레벨업을 열고 보호자 연결 링크를 만들 수 있어요.</p>
     <a class="button" id="openApp" href="nyamnyam://parent-invite">앱에서 초대 링크 만들기</a>

diff --git a/invite/index.html b/invite/index.html
@@ -4,7 +4,7 @@
   <meta charset="utf-8">
   <meta name="viewport" content="width=device-width, initial-scale=1">
   <title>급식레벨업 보호자 연결</title>
-  <link rel="stylesheet" href="../assets/site.css">
+  <link rel="stylesheet" href="../assets/site.css?v=20260916c">
   <style>
     body {
       min-height: 100vh;
@@ -84,7 +84,7 @@
 </head>
 <body>
   <main class="invite-card">
-    <img src="../assets/mascot-thumb.png" alt="급식레벨업 캐릭터">
+    <img src="../assets/mascot-thumb.png?v=20260916c" alt="급식레벨업 캐릭터">
     <h1>보호자 연결</h1>
     <p>앱이 설치되어 있으면 아래 버튼으로 급식레벨업을 열고 초대 코드를 자동 등록할 수 있어요.</p>
     <div class="code" id="inviteCode">초대 코드 확인 중</div>
